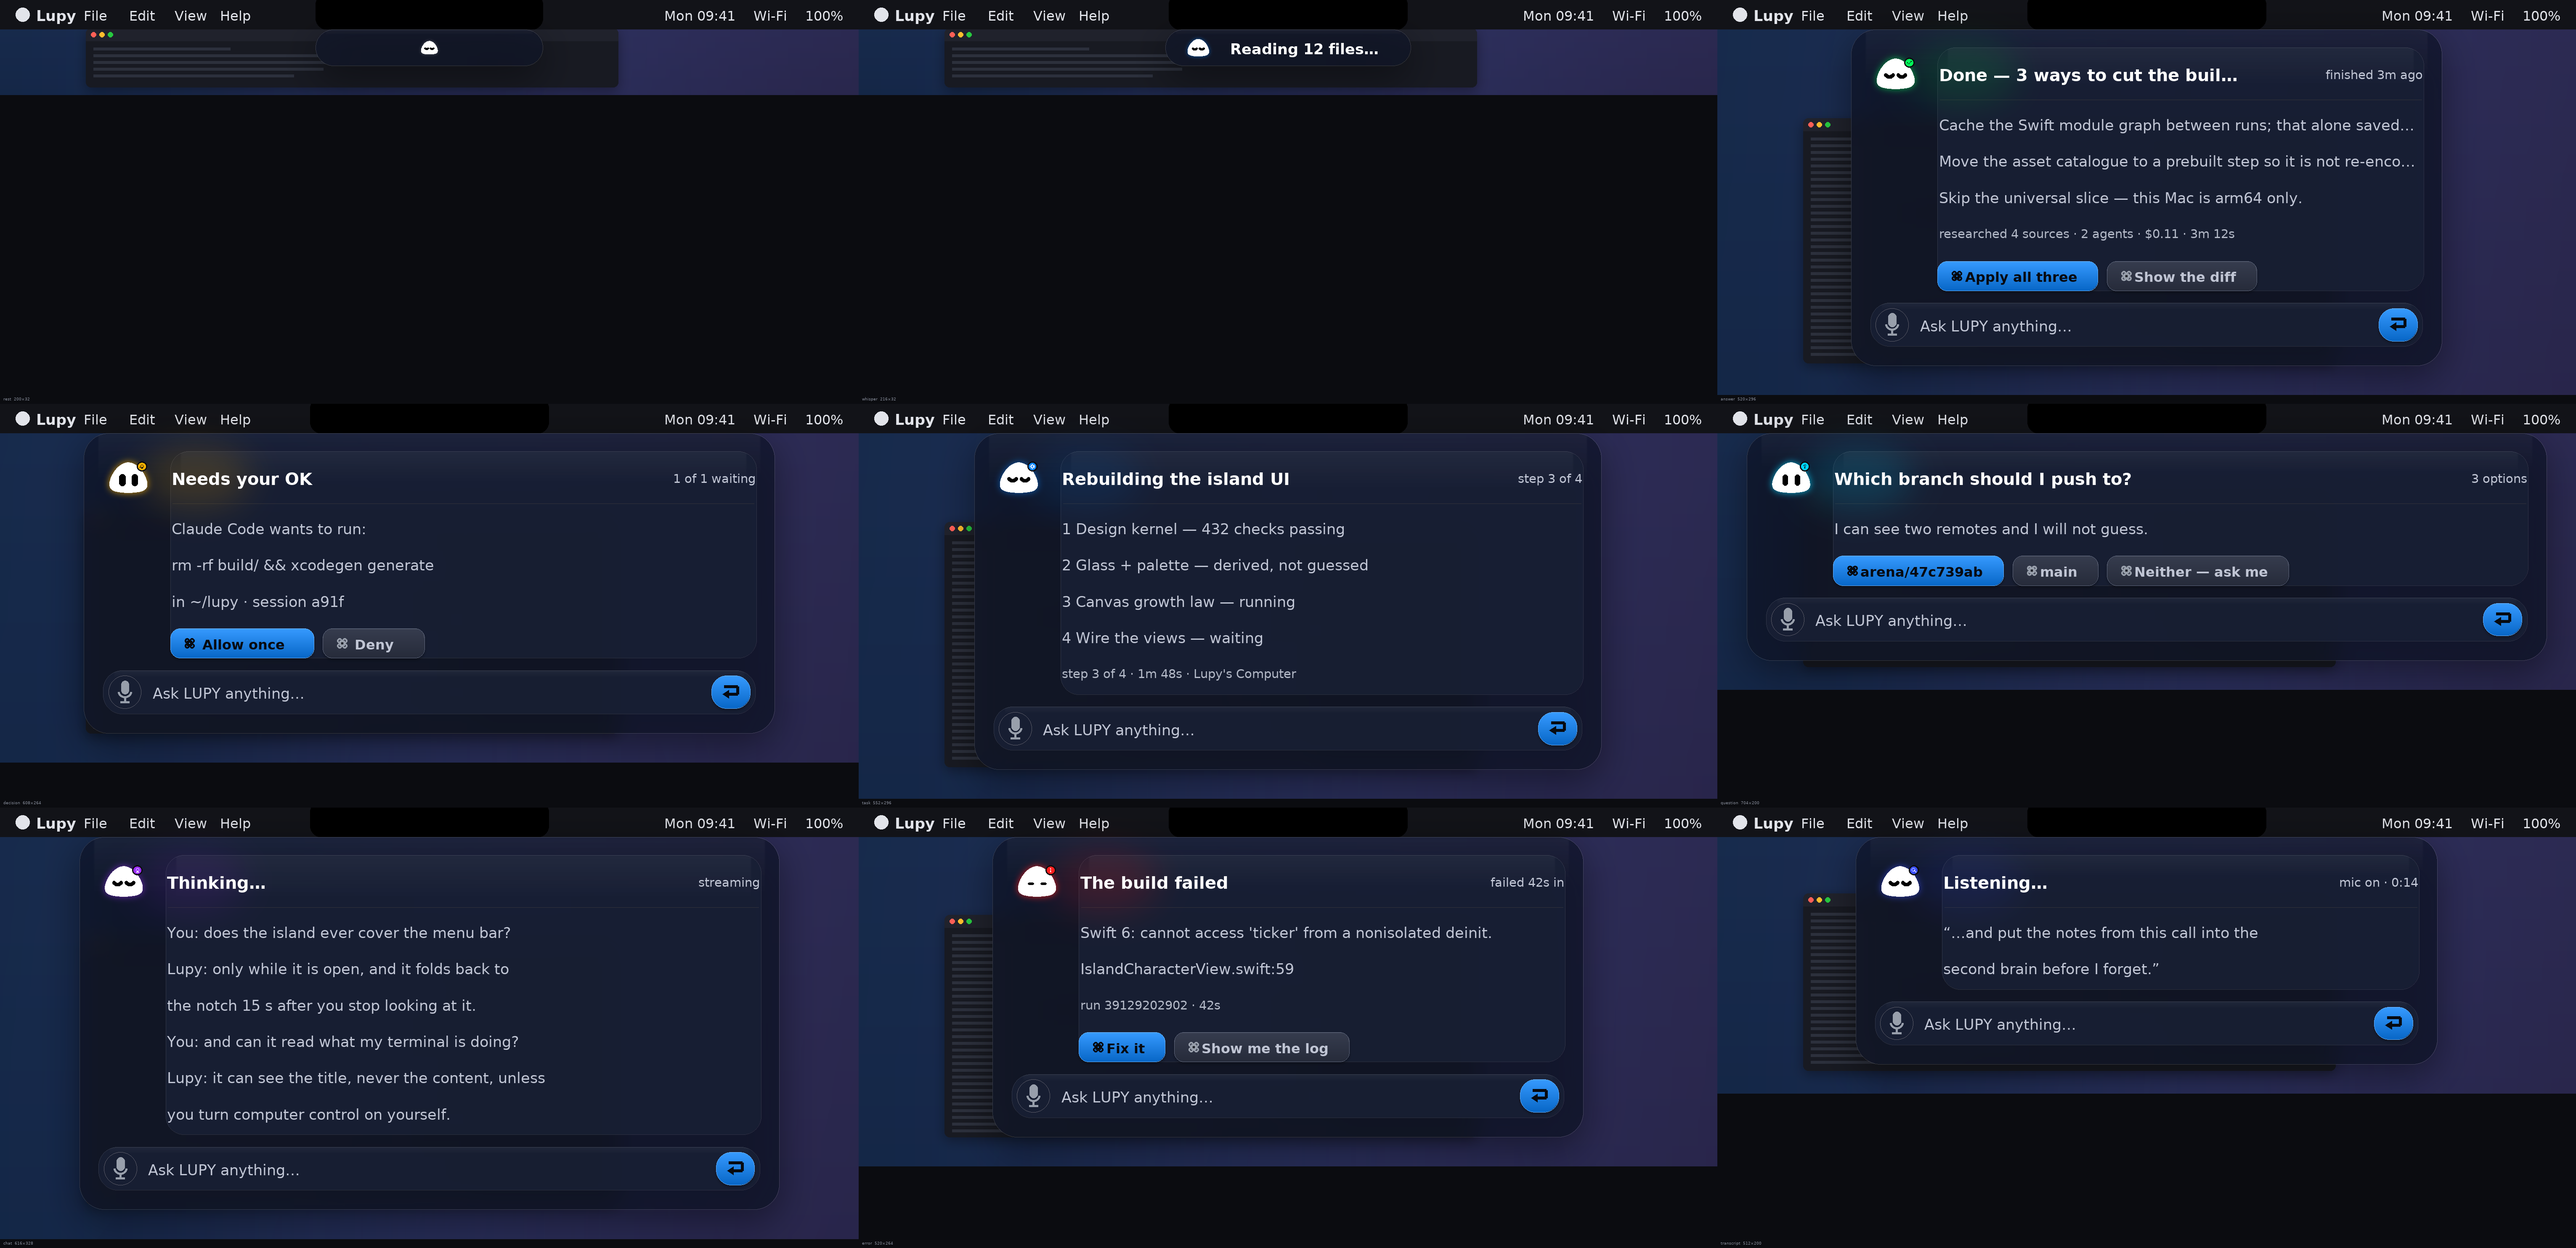
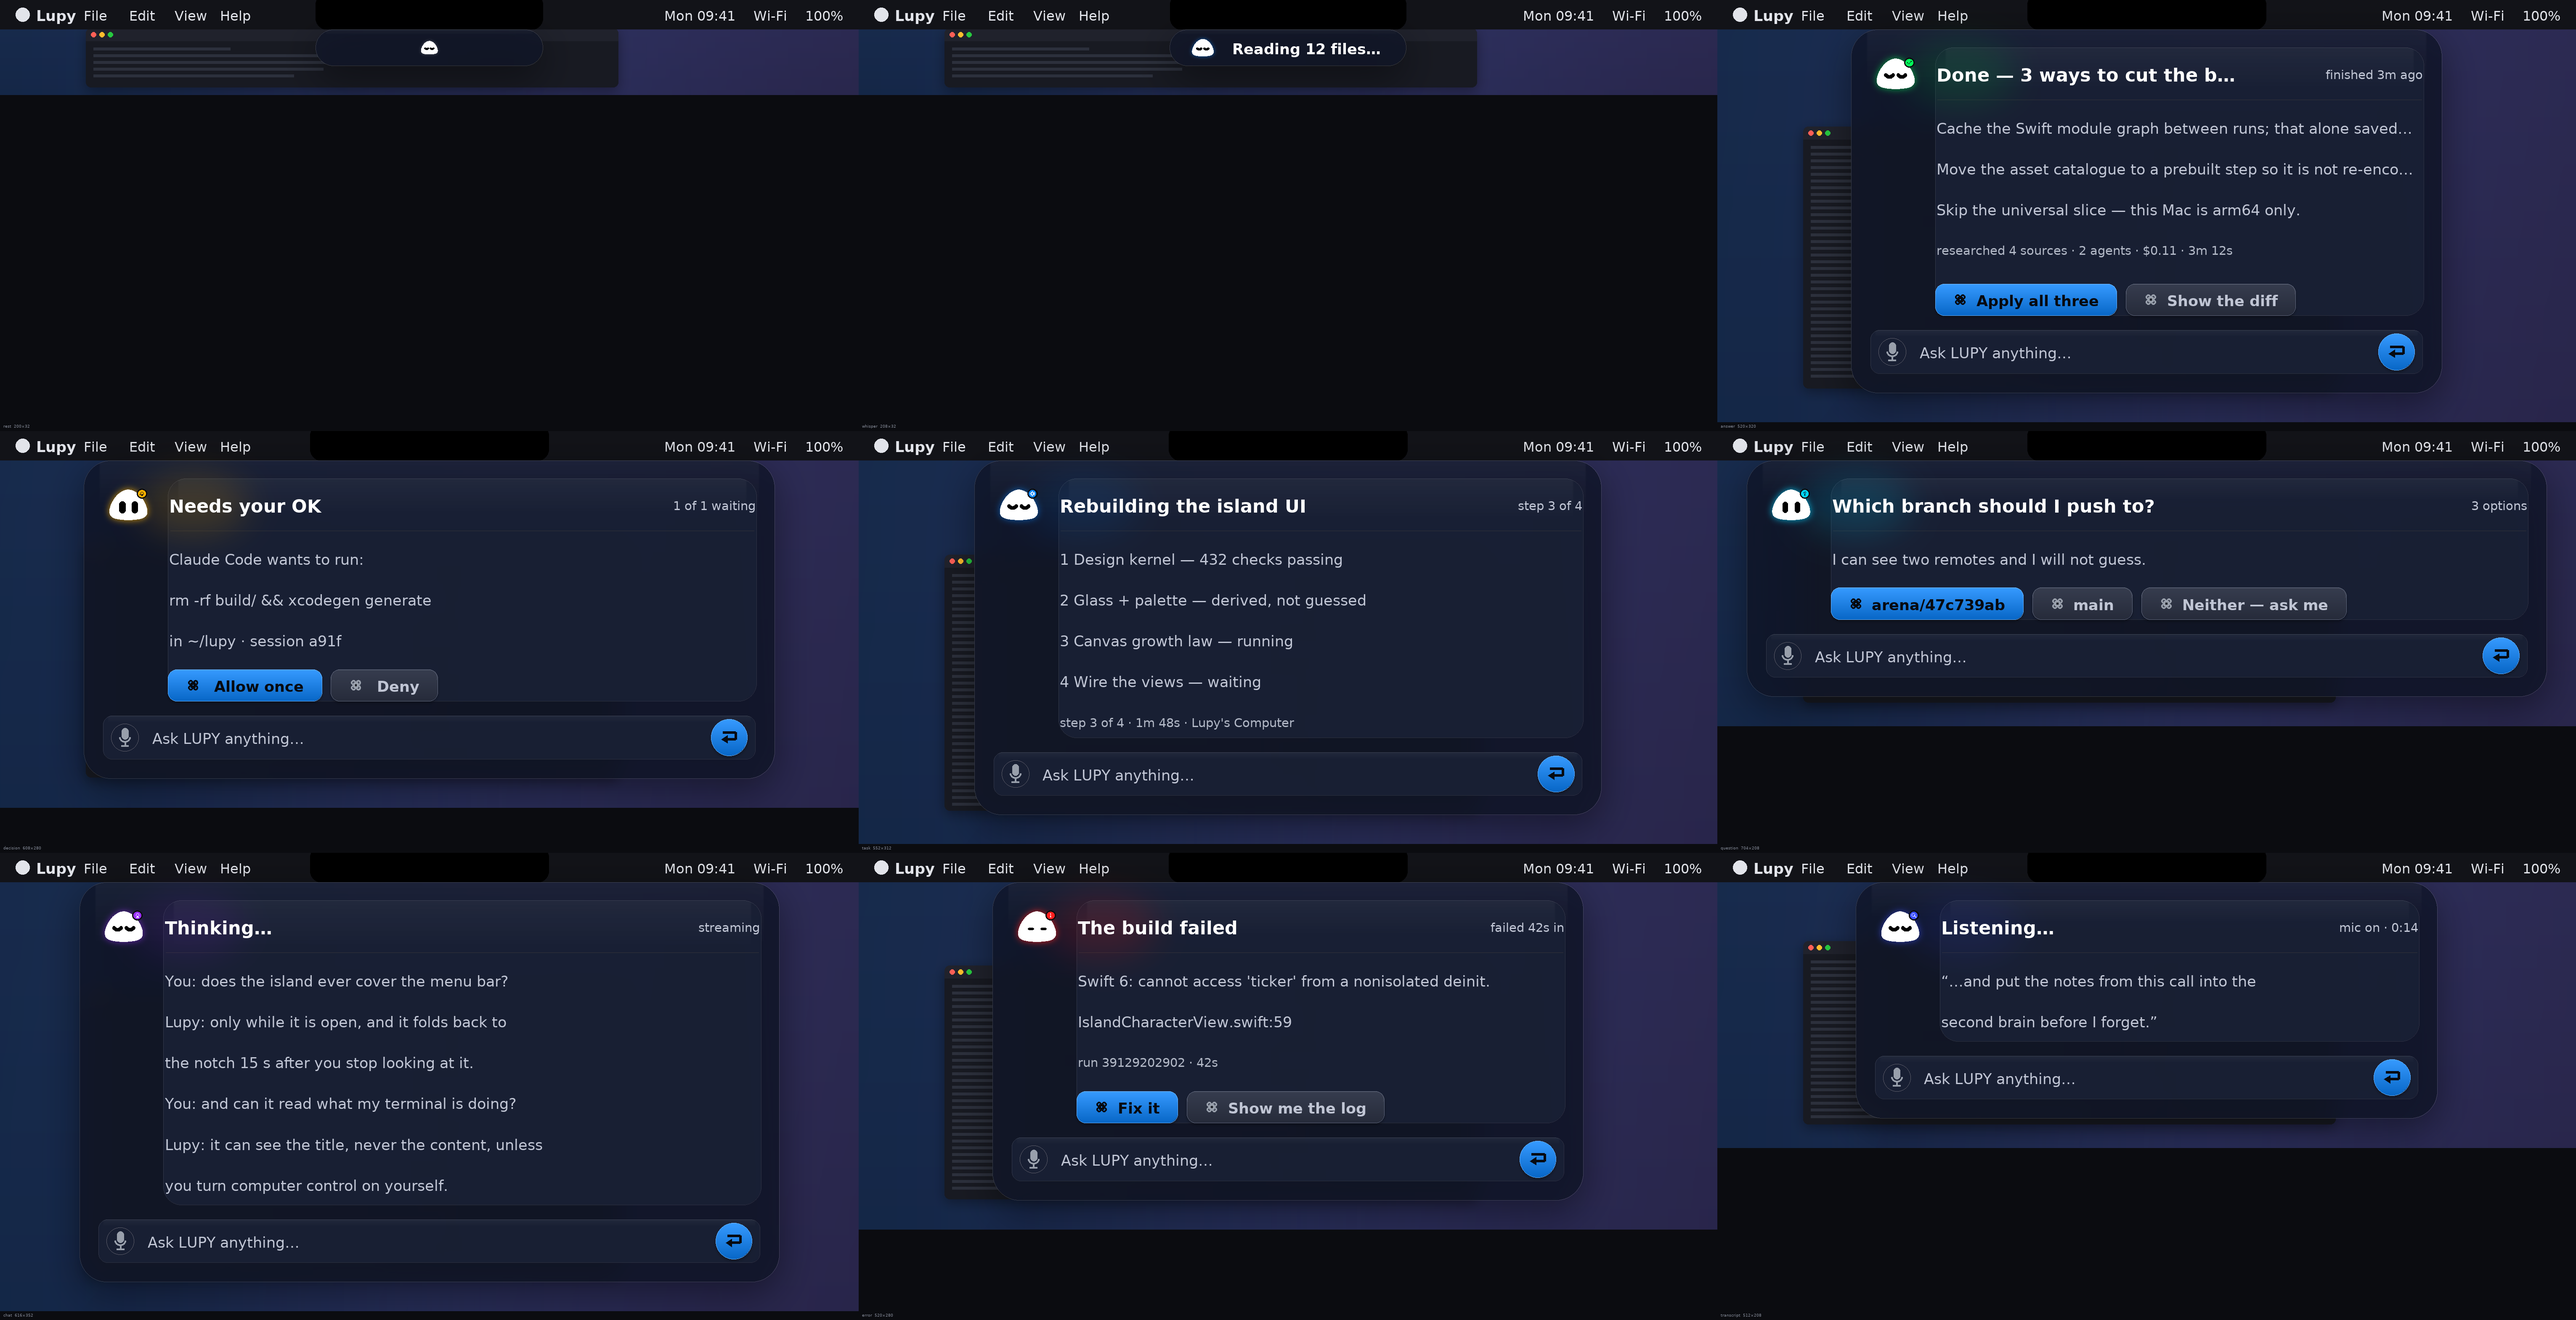
Island on the spacing scale: 8pt grid + documented 4pt half-step, deeper glass
Founder's eye caught it: padding, margins and buttons were not uniform. Researched
the actual practice (8pt grid with a 4pt half-step for component internals; macOS
platform sizes where they beat the generic grid) and put every kernel number on it:

  padEdge 16 · padInner 12 · composerGap 12 · row 24 (20pt line box at 154% + 4pt
  related-row gap) · chip 28 (macOS bordered .regular) · chipPadH 16 · chipIconGap 8
  radii family 8/16/24/capsule: chip 8, card 16, field 8, open panel 24
  type: headline 16 bold, body 13 regular, chip label 13 — one family, two weights

Glass deeper as asked: alpha 0.777 -> 0.837, still derived from the contrast floor;
worst-case contrast improves to 11.07:1 over a white document, 6.42:1 for body text.

Renderer now reads the whole control kit from the kernel's emitted METRIC line —
chip padding, icon gap and every radius — so a picture can never drift from the law.
473 design checks pass.

diff --git a/Mac/Sources/Lupy/UI/LupyIslandDesign.swift b/Mac/Sources/Lupy/UI/LupyIslandDesign.swift
@@ -326,7 +326,7 @@ struct LupyGlass: Equatable {
         let base = panelBase
         let legal = minimumFillAlpha(base: base, text: strictestText)
         var g = LupyGlass(base: base,
-                          fillAlpha: LM.clamp(legal + 0.04, 0, 1),
+                          fillAlpha: LM.clamp(legal + 0.10, 0, 1),
                           blur: 28,
                           saturation: 1.55,
                           hairline: LupyColour(1, 1, 1, 0.16),
@@ -347,7 +347,7 @@ struct LupyGlass: Equatable {
         let base = panelBase.mixed(with: LupyPalette.dusk, lift)
         let legal = minimumFillAlpha(base: base, text: strictestText)
         var g = LupyGlass(base: base,
-                          fillAlpha: LM.clamp(legal + 0.06, 0, 1),
+                          fillAlpha: LM.clamp(legal + 0.12, 0, 1),
                           blur: 18,
                           saturation: 1.35,
                           hairline: LupyColour(1, 1, 1, 0.12),
@@ -371,13 +371,13 @@ struct LupyGlass: Equatable {
 enum LupyType {
     /// The status sentence in an open canvas. The largest text on the island, because it
     /// is the one thing that must be read at a glance.
-    static let headline: Double = 15
+    static let headline: Double = 16   // a grid multiple; bold, not bigger
     /// A whisper beside him in the compact band.
     static let peek: Double     = 13
     /// Card body.
     static let body: Double     = 13
     /// Quick-reply chips (⌘1/⌘2/⌘3).
-    static let chip: Double     = 12
+    static let chip: Double     = 13   // body size, medium weight: one family, two weights
     /// Provenance: "researched 4 sources · 2 agents · $0.11 · 3m".
     static let provenance: Double = 11
 
@@ -579,10 +579,10 @@ enum LupyIslandLayout {
     /// 16 pt at the edge: the standard floating-panel inset, and proven by
     /// `containsRounded` to clear a 22 pt corner with room to spare.
     static let padEdge: Double  = 16
-    /// 10 pt between rows. A 13 pt line wants a 22 pt row and a breath, not a gap as big
-    /// as the line itself — the first cut of this law used 14 and the cards looked empty,
-    /// which is exactly what the founder's eye caught.
-    static let padInner: Double = 10
+    /// 12 pt inside a card: the documented 4 pt half-step of the 8 pt grid (8 felt cramped
+    /// against a 16 pt edge pad, 16 made the card's own padding equal the panel's and
+    /// killed the proximity hierarchy edge > card > row).
+    static let padInner: Double = 12
 
     /// LUPY's column, in points of *frame*.
     ///
@@ -597,22 +597,35 @@ enum LupyIslandLayout {
     static let avatarRest: Double     = 20
     /// In the compact band, a little bigger.
     static let avatarWhisper: Double  = 26
-    static let avatarGap: Double      = 14
+    static let avatarGap: Double      = 12   // half-step: his column to the card
 
     /// The composer. Permanent whenever the canvas is open — the only control that is.
     /// 40 pt is a standard macOS field height; 44 was a phone number.
-    static let composerHeight: Double = 40
-    static let composerGap: Double    = 10
+    static let composerHeight: Double = 40   // 5 × 8
+    static let composerGap: Double    = 12   // half-step between card and composer
 
     /// Row metrics.
     /// The headline row is exactly as tall as LUPY, so he and the status sentence share a
     /// centre line and he reads as the one saying it. Its right half carries the card's
     /// meta (step count, queue, cost) so the row is never dead space.
     static let headlineRow: Double = avatarExpanded
-    /// A 13 pt line in a 22 pt row is how every well-set Mac list reads.
-    static let rowHeight: Double   = 22
-    /// A chip is a button you press with a pointer, not a row you read.
-    static let chipHeight: Double  = 26
+    /// A 13 pt line in a 20 pt line box (154 % — inside the 140–160 % body range) plus a
+    /// 4 pt related-row gap: pitch 24, a full grid step. Lists read as lists.
+    static let rowHeight: Double   = 24
+    /// A chip is a button you press with a pointer, not a row you read. 28 pt is the
+    /// modern macOS bordered control at .regular — on the 4 pt sub-grid, between the
+    /// small (24) and large (32) sizes, and 8 pt taller than the row it answers.
+    static let chipHeight: Double  = 28
+
+    // MARK: the control kit, on the same scale
+    /// Button horizontal padding: space-2, the default inside cards and buttons.
+    static let chipPadH: Double     = 16
+    /// Icon to label inside a button: the standard icon-text gap.
+    static let chipIconGap: Double  = 8
+    /// Radii come from one family — 8, 16, 24, capsule — never from a thumb:
+    static let chipCorner: Double   = 8    // a macOS button
+    static let cardCorner: Double   = 16   // a card, in the modern 8–16 range
+    static let fieldCorner: Double  = 8    // a macOS text field
 
     /// The narrowest card that can still hold a headline and a source line.
     static let headlineMin: Double = 240
@@ -645,7 +658,7 @@ enum LupyIslandLayout {
     static func corner(width: Double, height: Double) -> Double {
         let small = width < height ? width : height
         if small <= notchHeight + 2 { return small / 2 }     // a band is a capsule
-        return LM.clamp(22, 8, small / 2)
+        return LM.clamp(24, 8, small / 2)   // top of the 8/16/24 radius family
     }
 
     /// The whole answer. One call, no view code involved.

diff --git a/tools/ui/layout_emit.swift b/tools/ui/layout_emit.swift
@@ -184,9 +184,13 @@ enum LayoutEmitter {
         let br = LupyGlass.behindBright, dk = LupyGlass.behindDark
         print("BEHIND bright \(num(br.r)) \(num(br.g)) \(num(br.b))")
         print("BEHIND dark \(num(dk.r)) \(num(dk.g)) \(num(dk.b))")
-        print("METRIC grid \(num(LupyIslandLayout.grid)) pad \(num(LupyIslandLayout.padEdge))"
-              + " inner \(num(LupyIslandLayout.padInner)) row \(num(LupyIslandLayout.rowHeight))"
-              + " chip \(num(LupyIslandLayout.chipHeight)) composer \(num(LupyIslandLayout.composerHeight))")
+        let L = LupyIslandLayout.self
+        let m1 = "METRIC grid \(num(L.grid)) pad \(num(L.padEdge)) inner \(num(L.padInner))"
+        let m2 = " row \(num(L.rowHeight)) chip \(num(L.chipHeight)) composer \(num(L.composerHeight))"
+        let m3 = " chipPadH \(num(L.chipPadH)) chipIconGap \(num(L.chipIconGap))"
+        let m4 = " chipCorner \(num(L.chipCorner)) cardCorner \(num(L.cardCorner))"
+        let m5 = " fieldCorner \(num(L.fieldCorner))"
+        print(m1 + m2 + m3 + m4 + m5)
         print("CONTRAST primary_bright \(num(LupyPalette.textPrimary.contrast(with: LupyGlass.panel.composited(over: br))))"
               + " primary_dark \(num(LupyPalette.textPrimary.contrast(with: LupyGlass.panel.composited(over: dk))))"
               + " body_bright \(num(b.contrast(with: LupyGlass.panel.composited(over: br))))"

diff --git a/tools/ui/design_tests.swift b/tools/ui/design_tests.swift
@@ -468,12 +468,12 @@ final class DesignTests {
         let safe = LupyBox(x: 60, y: 7, width: 120, height: 18)
         ok(band.containsRounded(safe, corner: r),
            "the kernel's placement — inboard of the corner — survives the clip")
-        // In an open canvas the corner is 22 pt and the padding 20 pt, so content sits a
+        // In an open canvas the corner is 24 pt and the padding 16 pt, so content sits a
         // hair inside the arc. That has to be legal, or every card would fail.
         let openFrame = LupyBox(x: 0, y: 0, width: 640, height: 320)
-        ok(openFrame.containsRounded(LupyBox(x: 20, y: 20, width: 600, height: 280), corner: 22),
-           "a card at the 20 pt padding survives a 22 pt corner")
-        ok(!openFrame.containsRounded(LupyBox(x: 4, y: 4, width: 632, height: 312), corner: 22),
+        ok(openFrame.containsRounded(LupyBox(x: 16, y: 16, width: 600, height: 280), corner: 24),
+           "a card at the 16 pt padding survives a 24 pt corner")
+        ok(!openFrame.containsRounded(LupyBox(x: 4, y: 4, width: 632, height: 312), corner: 24),
            "…and one pushed into the corner does not")
 
         // (b) Two characters in one app: the island drew Coucou's orange while the approved

diff --git a/tools/ui/render_island.py b/tools/ui/render_island.py
@@ -394,7 +394,7 @@ def draw_scene(doc, canvas, rig, kind, pp, context=True, below=26, min_w=None):
     # ---- the card
     if content and content[2] > 0:
         paste_glass(img, (side + content[0], oy + content[1], content[2], content[3]),
-                    16, doc["glass"]["card"], ss, shadow=False)
+                    m["cardCorner"], doc["glass"]["card"], ss, shadow=False)
         d = ImageDraw.Draw(img)
         # divider under the headline row: structure, in the decoration tone
         dy = (oy + status[1] + status[3]) * ss
@@ -461,25 +461,28 @@ def draw_scene(doc, canvas, rig, kind, pp, context=True, below=26, min_w=None):
                 shortcut, rest = label[:2], label[2:]
             else:
                 shortcut, rest = "", label
+            padH, igap = m["chipPadH"], m["chipIconGap"]
             tw = d.textlength(rest, font=cf) / ss
             sw = 0.0
             if shortcut:
-                sw = d.textlength(shortcut, font=cf) / ss + 6
-            cw = tw + sw + 24
+                sw = 12 + igap          # ⌘ glyph box + gap; glyph drawn inside it
+            cw = tw + sw + 2 * padH
             if cx + cw > content[0] + content[2]:
                 break
             x0, y0 = P(cx, chip_y)
             rect = [x0, y0, x0 + cw * ss, y0 + m["chip"] * ss]
             if i == 0:
-                button(img, rect, ss, "", cf, "primary", accent, ink_text, body_text)
+                button(img, rect, ss, "", cf, "primary", accent, ink_text, body_text,
+                       radius=int(m["chipCorner"] * ss))
             else:
-                button(img, rect, ss, "", cf, "glass", accent, ink_text, body_text)
+                button(img, rect, ss, "", cf, "glass", accent, ink_text, body_text,
+                       radius=int(m["chipCorner"] * ss))
             d = ImageDraw.Draw(img)
-            tx = x0 + 12 * ss
+            tx = x0 + padH * ss
             if shortcut:
-                icon_command(d, tx + 5 * ss, y0 + m["chip"] * ss / 2, 11 * ss,
+                icon_command(d, tx + 6 * ss, y0 + m["chip"] * ss / 2, 11 * ss,
                              ink_text if i == 0 else rgb(col["icon"]))
-                tx += 12 * ss
+                tx += (12 + igap) * ss
                 d.text((tx, y0 + (m["chip"] * ss - cf.size) / 2), rest, font=cf,
                        fill=ink_text if i == 0 else body_text)
                 tx += d.textlength(rest, font=cf)
@@ -503,24 +506,24 @@ def draw_scene(doc, canvas, rig, kind, pp, context=True, below=26, min_w=None):
         fw, fh = composer[2] * ss, composer[3] * ss
         field = (side + composer[0] + 1, oy + composer[1] + 1,
                  composer[2] - 2, composer[3] - 2)
-        paste_glass(img, field, composer[3] * 0.42, doc["glass"]["card"], ss, shadow=False)
+        paste_glass(img, field, m["fieldCorner"], doc["glass"]["card"], ss, shadow=False)
         d = ImageDraw.Draw(img)
         # mic in its own round glass button — the standard affordance
-        mx, my = fx + fh * 0.5, fy + fh * 0.5
-        mr = fh * 0.36
+        mx, my = fx + 8 * ss + fh * 0.3, fy + fh * 0.5
+        mr = fh * 0.3
         d.ellipse([mx - mr, my - mr, mx + mr, my + mr],
                   outline=rgb(col["line"]), width=max(1, int(ss * 0.6)))
         icon_mic(d, mx, my, mr * 1.15, rgb(col["icon"]))
         pf = ImageFont.truetype(REG, max(6, int(doc["type"]["body"] * ss)))
-        d.text((mx + mr + 10 * ss, fy + (fh - pf.size) / 2), "Ask LUPY anything…",
+        d.text((mx + mr + 12 * ss, fy + (fh - pf.size) / 2), "Ask LUPY anything…",
                font=pf, fill=body_text)
         # send: primary button at the right end
-        sw = 34 * ss
-        button(img, [fx + fw - sw - fh * 0.14, fy + fh * 0.14,
-                     fx + fw - fh * 0.14, fy + fh * 0.86], ss, "", pf, "primary",
-               col["accent"], ink_text, body_text, radius=int(fh * 0.34))
+        sw = 32 * ss
+        button(img, [fx + fw - 8 * ss - sw, fy + 4 * ss,
+                     fx + fw - 8 * ss, fy + fh - 4 * ss], ss, "", pf, "primary",
+               col["accent"], ink_text, body_text, radius=int(sw / 2))
         d = ImageDraw.Draw(img)
-        icon_return(d, fx + fw - fh * 0.14 - sw / 2, fy + fh * 0.5, fh * 0.42, ink_text)
+        icon_return(d, fx + fw - 8 * ss - sw / 2, fy + fh * 0.5, fh * 0.4, ink_text)
 
     # ---- LUPY, last: his light sits over the glass he stands on
     if avatar and avatar[2] > 0:
